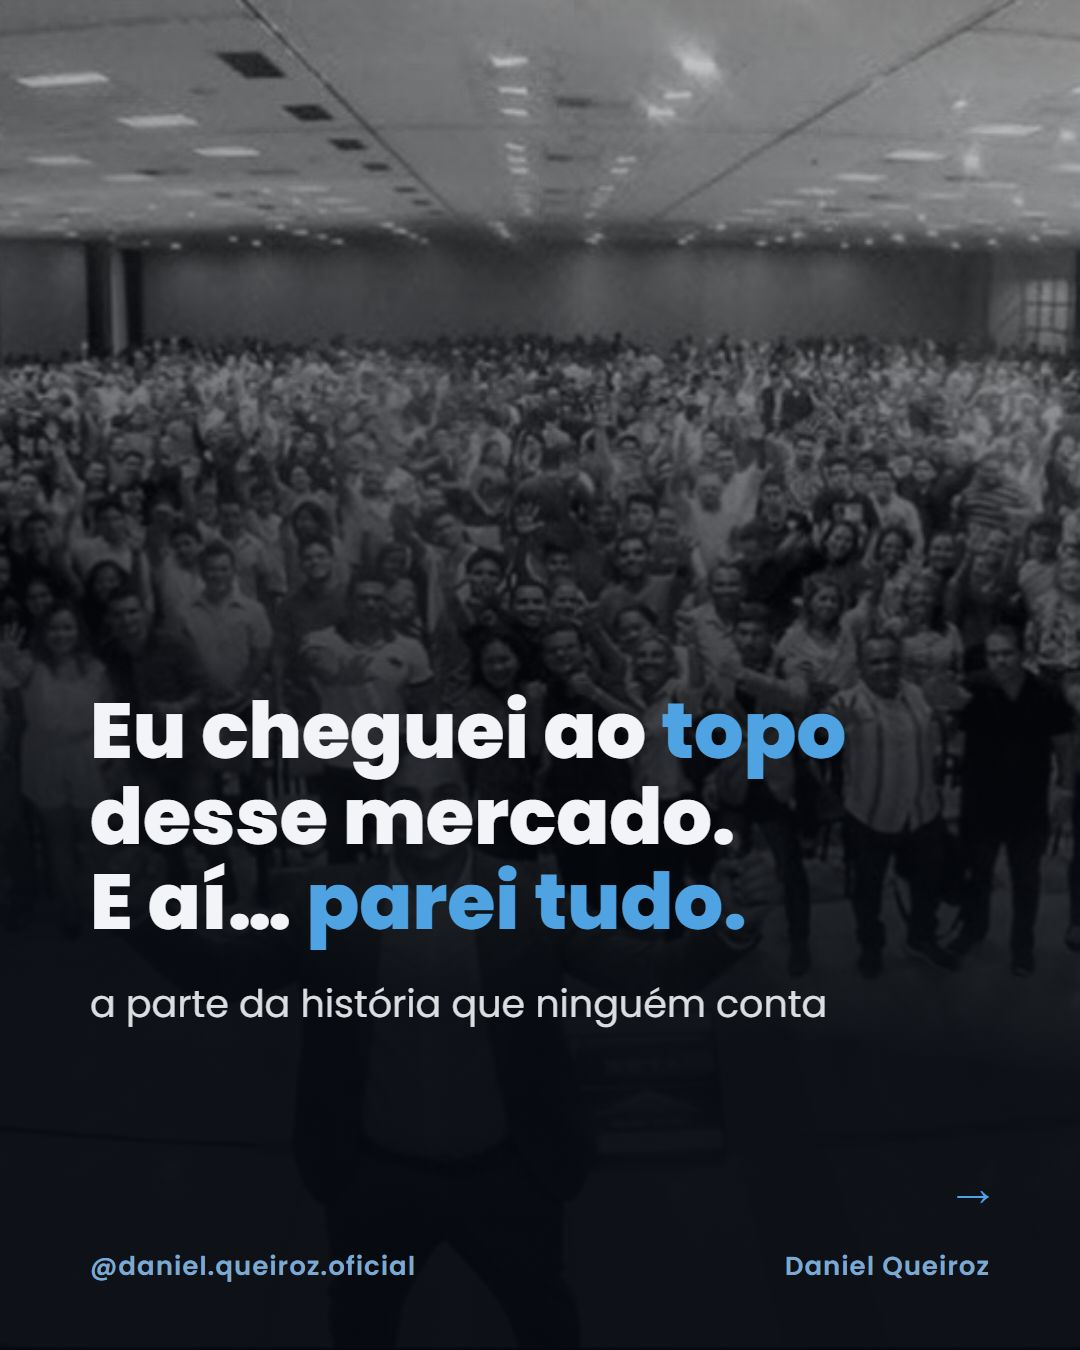
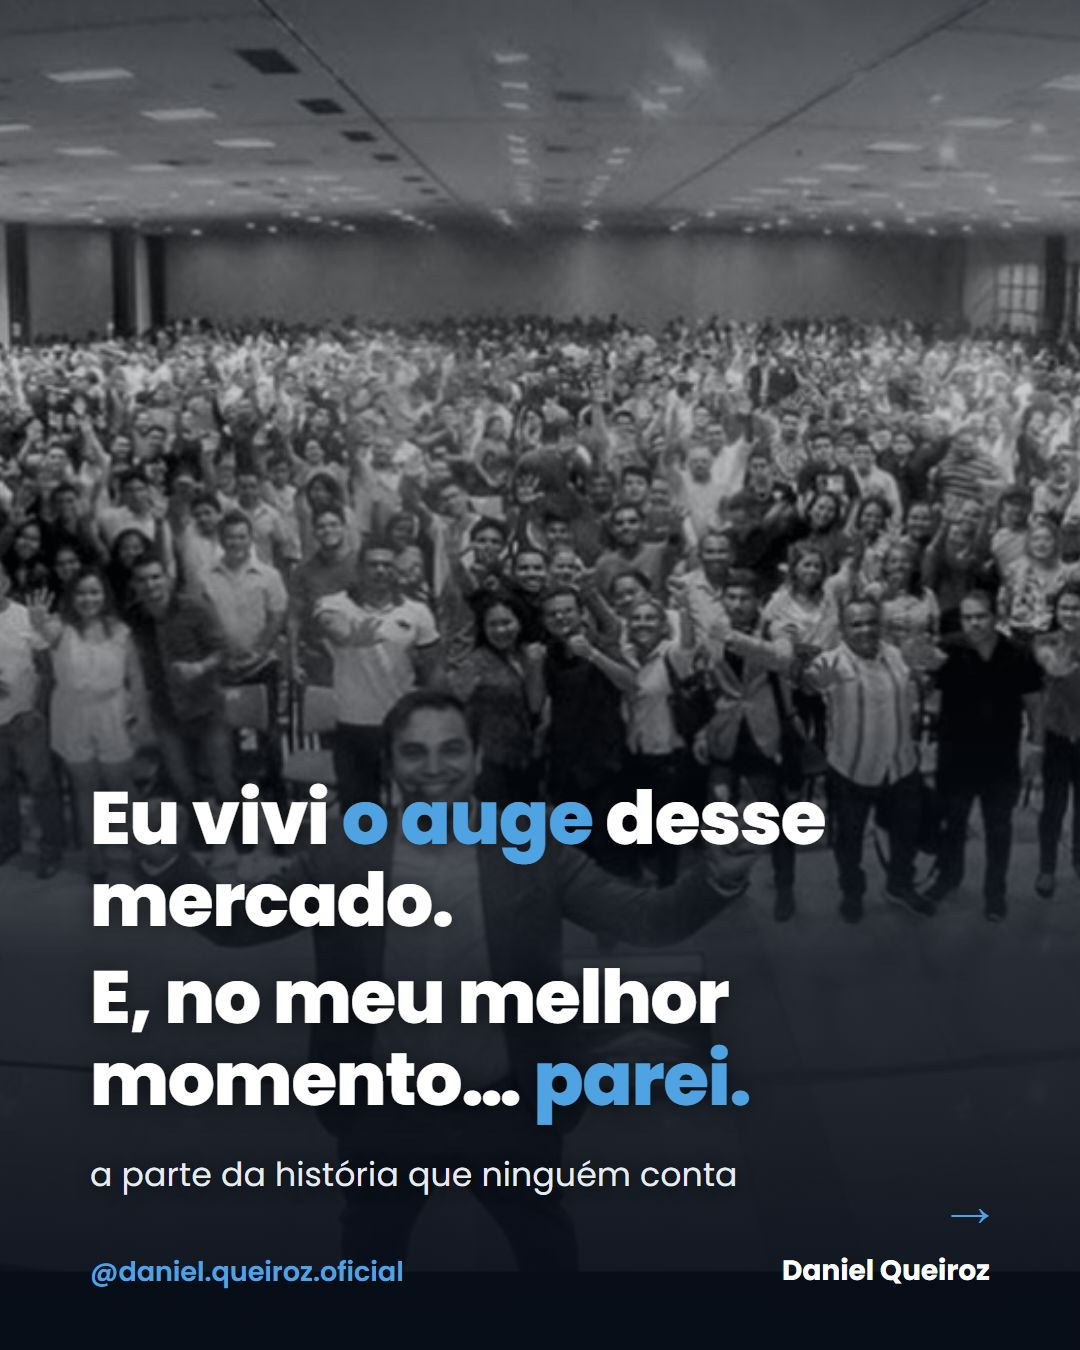
Daniel Queiroz c02: capa com copy mais humilde ("o auge" no lugar de "cheguei ao topo")
Troca a arte da capa do carrossel 02 e alinha o resumo no plano editorial (index.html).
Mesma foto/identidade; muda só a copy a pedido do cliente (grandeza pela cena, humildade na palavra).

diff --git a/artifacts/mazari-corp/public/danielqueiroz/index.html b/artifacts/mazari-corp/public/danielqueiroz/index.html
@@ -223,7 +223,7 @@ const F = { car:['CARROSSEL','f-car'], est:['ESTÁTICO','f-est'], edi:['EDITORIA
 const weeks = [
  { t:'Semana 1 — A estreia', s:'29 set → 05 out · O recomeço vai ao ar.', days:[
   ['29','SET','SEG','mon','edu','Vendendo seu tempo ou lucrando com ele?','Primeira publicação da temporada — já no ar, colhendo comentários TEMPO.','<a href="https://www.instagram.com/p/Dd1rUzXjpLe/" target="_blank" rel="noopener">ver publicação no Instagram ↗</a>',['c01',7],1],
-  ['01','OUT','QUA','car','hist','Eu cheguei ao topo. E parei.','A história que ninguém conta: o topo, a pausa de 3 anos e o recomeço.','Salvar',['c02',8]],
+  ['01','OUT','QUA','car','hist','Eu vivi o auge. E, no meu melhor momento, parei.','A história que ninguém conta: o auge, a pausa de 3 anos e o recomeço.','Salvar',['c02',8]],
   ['03','OUT','SEX','car','dor','Como você vive hoje?','O espelho que dói e o convite pra conhecer o projeto por dentro.','Comentar VIDA',['c03',7]],
   ['04','OUT','SÁB','est','hist','“Recomeçar não é voltar atrás. É voltar diferente.”','Frase-assinatura do Daniel para fixar o tema da temporada.','Salvar',['est','e01']],
   ['05','OUT','DOM','edi','hist','Ensaio: “Disciplina é a forma mais alta de amor-próprio.”','3 fotos editoriais, frase que se completa ao deslizar.','Presença',null]
